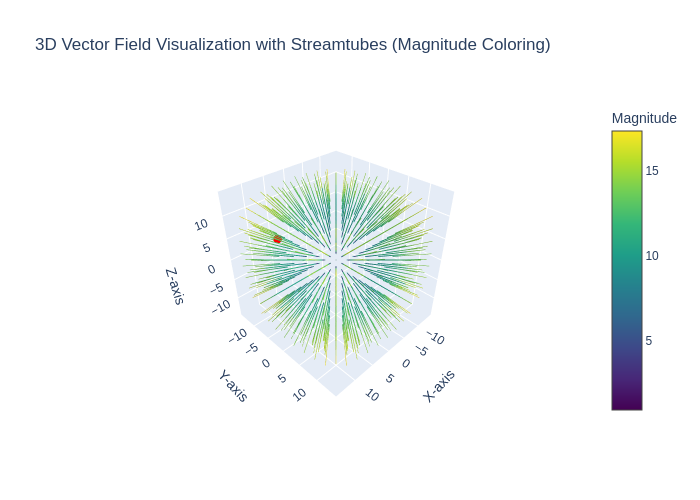
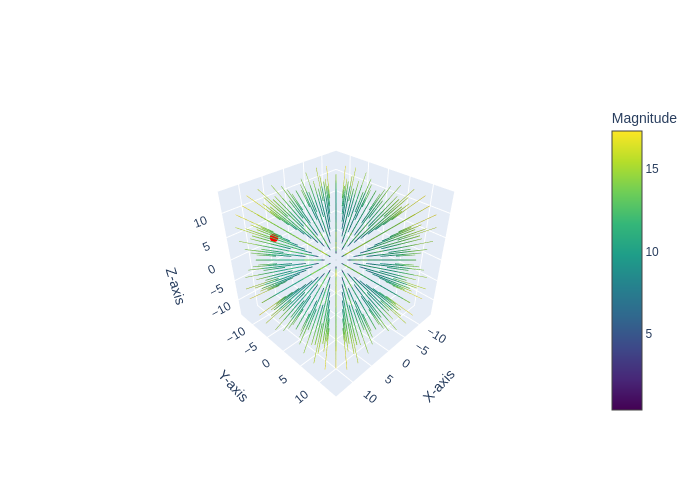
Slight mishap in the exporting

diff --git a/streamlines.py b/streamlines.py
@@ -54,14 +54,14 @@ fig.update_layout(
         zaxis_title='Z-axis',
 
         # Corner
-        # camera=dict(
-        #     eye=dict(x=1.5, y=1.5, z=1.5)
-        # )
+        camera=dict(
+            eye=dict(x=1.5, y=1.5, z=1.5)
+        )
 
         # Top
-        camera=dict(
-            eye=dict(x=0, y=0, z=2)
-        )
+        # camera=dict(
+        #     eye=dict(x=0, y=0, z=2)
+        # )
     ),
     # title="3D Vector Field Visualization with Streamtubes (Magnitude Coloring)"
 )
